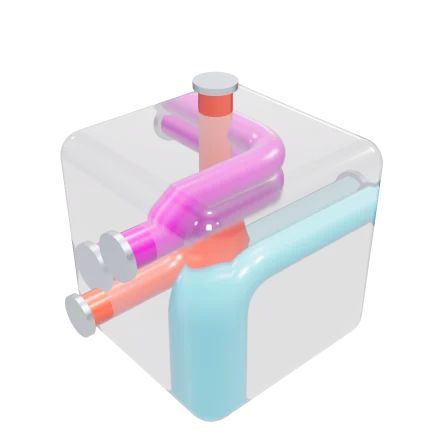
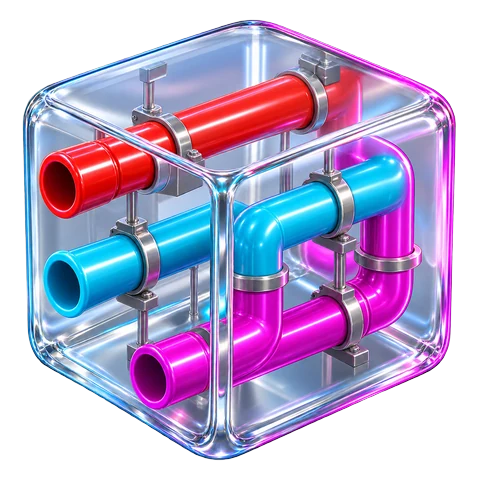
Home page: the generated glass cube for the About section
Replaces the bottom-right placeholder with Ajmal's generated glass
cube of pipework, trimmed to its edges and fitted to a 480px square
WebP with its transparency kept.

Claude-Session: https://claude.ai/code/session_01YPipLgghCYpxQS9JpqdTrz

diff --git a/landing/IMAGE-PROMPTS.md b/landing/IMAGE-PROMPTS.md
@@ -12,7 +12,7 @@ complete without them. Replace them in any order.
 3. Claude fits it to the slot as WebP, replaces the placeholder, checks the
    page and pushes it.
 
-Done so far: `about-valve`, `about-duct`.
+Done so far: `about-valve`, `about-duct`, `about-cube`.
 
 Order that matters most: the portrait, then the three projects, then the four
 About icons, then the marquee.
